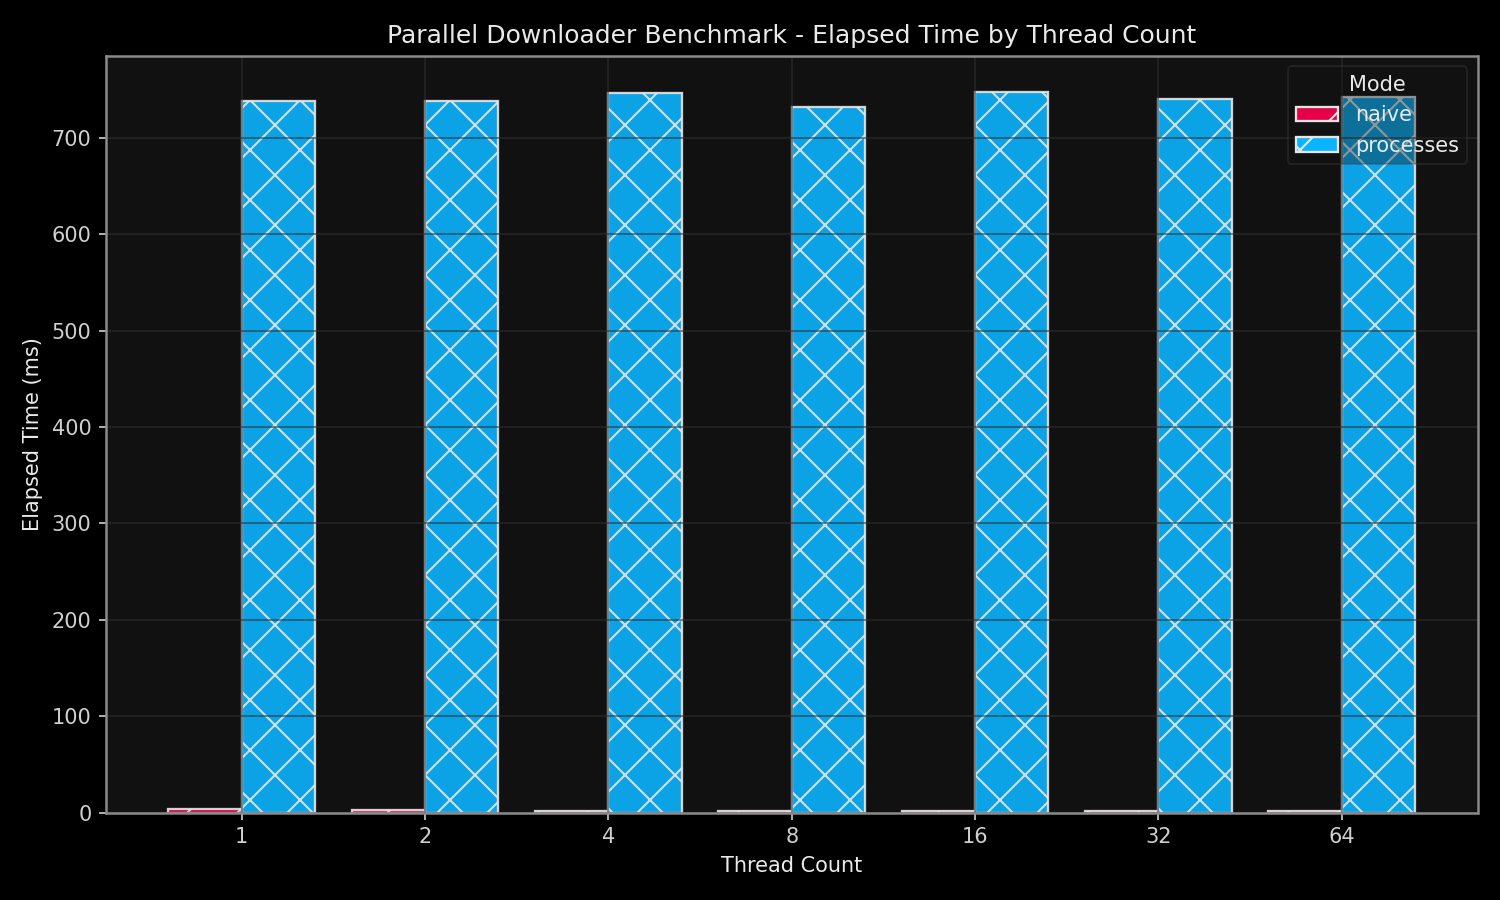
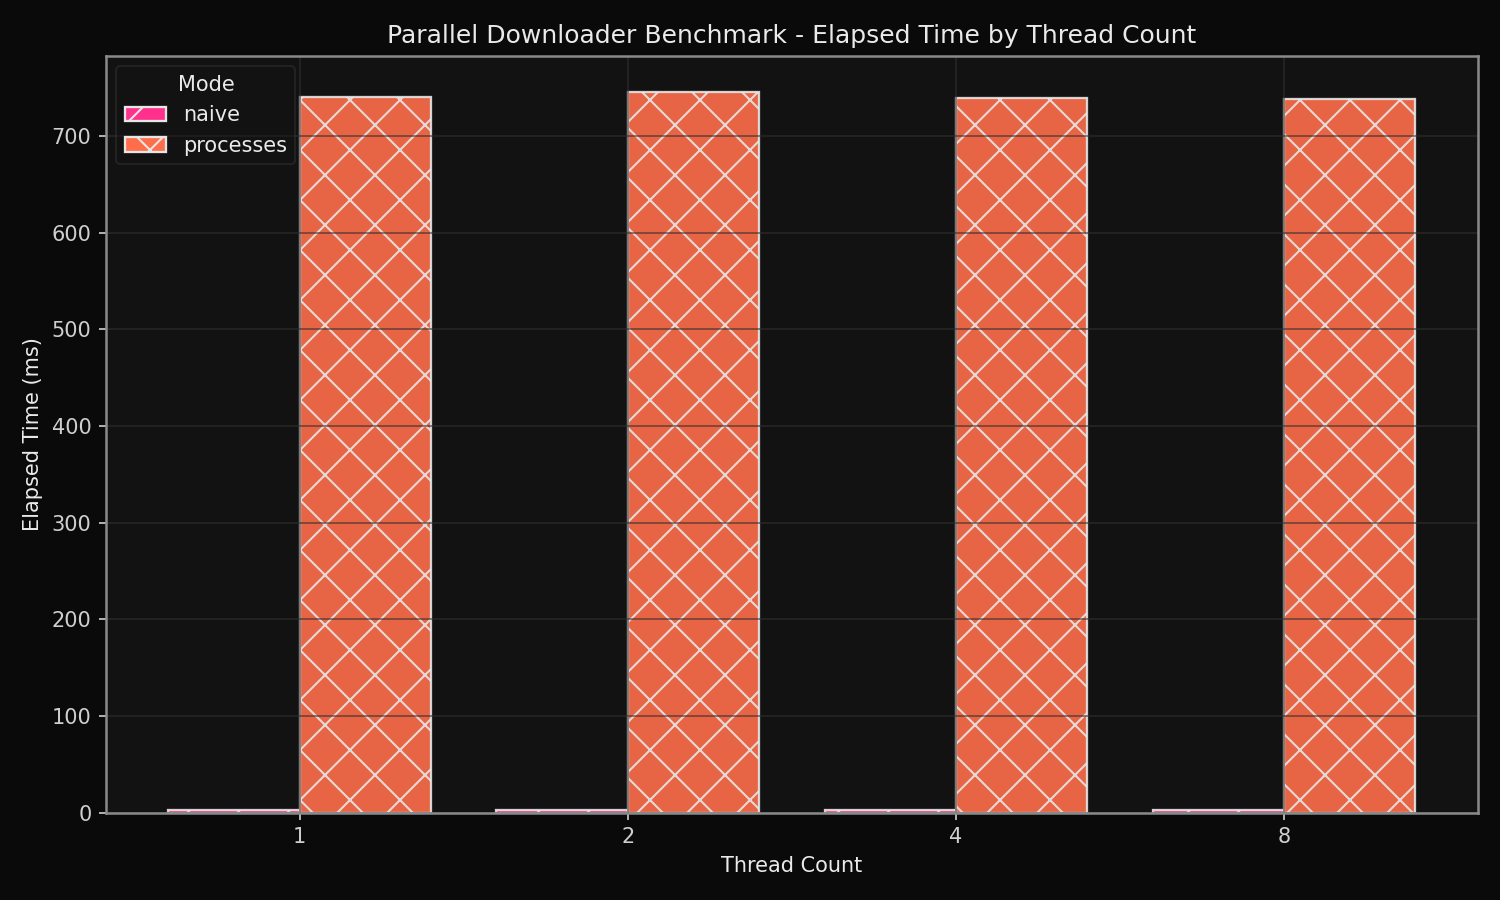
docs: make process benchmark more scientific

diff --git a/README.md b/README.md
@@ -215,7 +215,7 @@ Generated charts include:
 Note: It was expected that thread-based parallelism would outperform process-based parallelism due to lower coordination overhead and no process-level isolation costs. This scenario was benchmarked explicitly, and the hypothesis was confirmed, as shown in the graph below.
 
 ![Processes mode elapsed by threads](screenshots/elapsed_by_processes.png)
-This was done on a very small sample file as the benchmark was taking too long for larger files which included multiple iterations for warmup and to account for run to run variance. However, it is obvious that the thread based parallelism approach is superior. 
+This was done on a very small sample file (64KB) as the benchmark was taking too long for larger files which included multiple iterations for warmup and to account for run to run variance. However, it is obvious that the thread based parallelism approach is superior. Furthermore, the benchmark is limited to 8 processes in a real world it would realisticly be tied to the number of processors available and 8 is enough to demonstrate the mis-use of processes in this use-case. 
 
 
 ![Elapsed by threads](screenshots/elapsed_by_threads.png)
